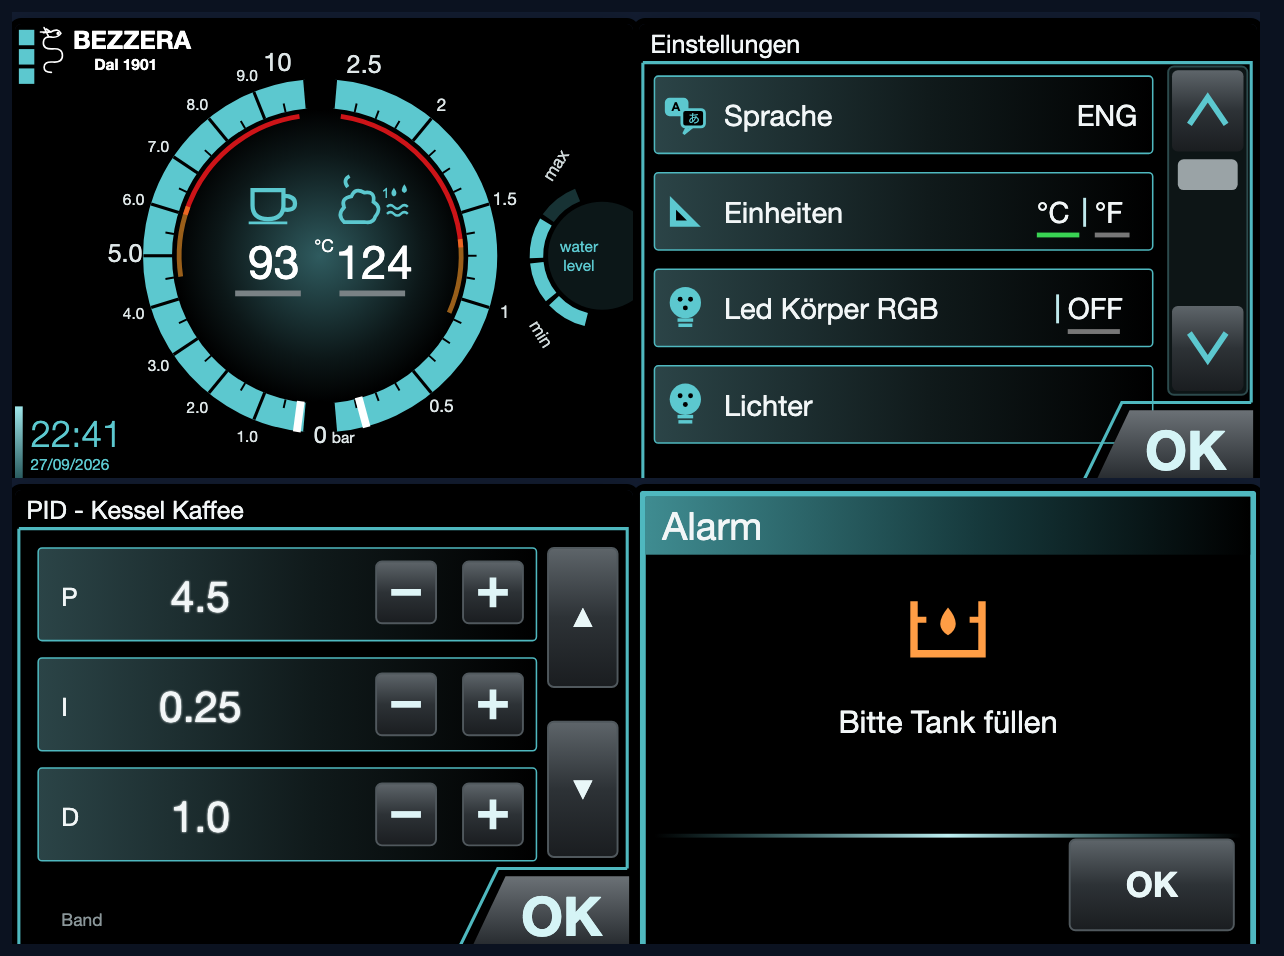
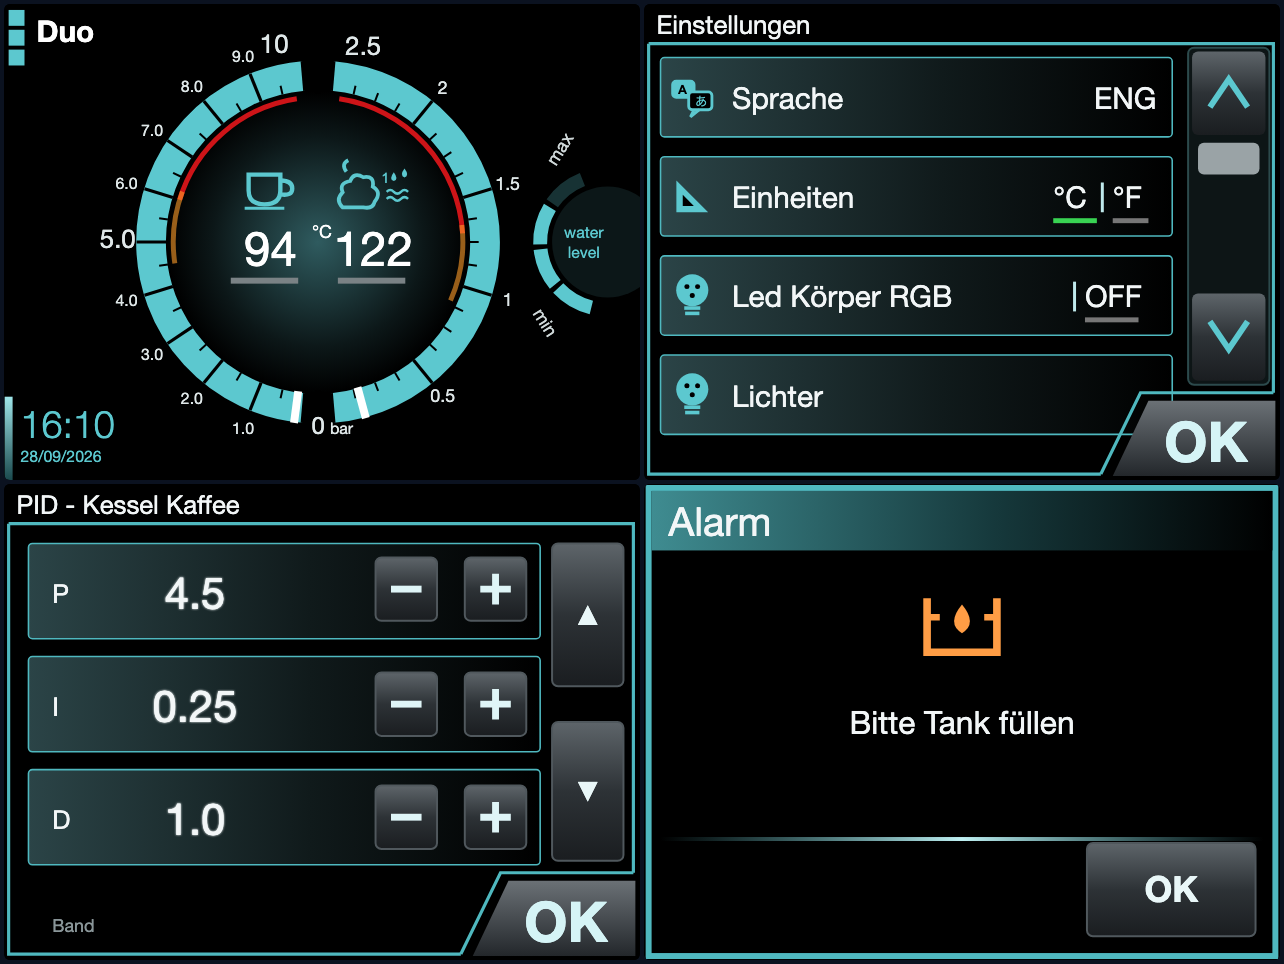
Display-Nachbau ohne Herstellerlogo
Schlange und Schriftzug "BEZZERA Dal 1901" im Nachbau durch einen
neutralen Schriftzug "Duo" und ein Tassensymbol ersetzt; hero.png,
standby_menue.png und weboberflaeche.png neu aus der Simulation.
Demo liefert dafuer Firmware-Version und PID-Werte.

Claude-Session: https://claude.ai/code/session_018WiivMUTBuvnsT2RcvbkJ6

Changed region(s): [[0.0, 0.0, 0.9969, 1.0], [0.6542, 0.728, 0.8411, 0.7887]]

diff --git a/bridge/duo_bridge/web_ui.h b/bridge/duo_bridge/web_ui.h
@@ -283,11 +283,6 @@ function uhr(r,x=12,y=222){
   const hm=r.slice(11,16), dat=r.slice(8,10)+"/"+r.slice(5,7)+"/"+r.slice(0,4);
   return txt(x,y-10,hm,{s:22,f:"#dff6ff",glow:1})+txt(x,y+4,dat,{s:9,f:"#bfe9ff"});
 }
-function logo(x,y,sk=1){ // stilisierte Schlange + Schriftzug, wie auf dem Standby
-  return `<g transform="translate(${x},${y}) scale(${sk})" fill="none" stroke="${FARBE.orange}" stroke-width="3" stroke-linecap="round" filter="url(#glow)">
-  <path d="M-12 -34 q8 -6 16 0 q8 6 16 0 M-14 -22 q14 -8 28 0 q-14 8 -28 0 M-12 -8 q12 -8 24 0 q-12 8 -24 0 M-8 6 q8 -6 16 0 q-8 6 -16 0 M-4 16 q4 6 0 12"/>
-  <circle cx="-14" cy="-36" r="2.5" fill="${FARBE.orange}"/></g>`;
-}
 function icon(name,x,y){
   const o=`fill="none" stroke="${FARBE.orange}" stroke-width="3" stroke-linejoin="round" stroke-linecap="round" filter="url(#glow)"`;
   if(name==="tank") return `<g transform="translate(${x},${y})" ${o}><path d="M-16 -14 V10 H16 V-14 M-16 -6 H-8 M8 -6 H16"/><path d="M0 -8 q-6 8 0 12 q6 -4 0 -12z" fill="${FARBE.orange}"/></g>`;
@@ -314,8 +309,8 @@ function wasserstand(){
 }
 
 function seiteStandby(s,j){
-  return `<rect width="320" height="240" fill="url(#gbg)"/>${logo(160,92,1.2)}
-  ${txt(160,128,"BEZZERA",{s:15,a:"middle",glow:1})}${txt(160,140,"Duo MN",{s:9,a:"middle"})}
+  return `<rect width="320" height="240" fill="url(#gbg)"/>${SYM.tasse(160,96,3)}
+  ${txt(160,140,"Duo",{s:15,a:"middle",glow:1})}
   ${txt(160,166,tx("start",s),{s:12,a:"middle",glow:1})}${klick(60,40,200,140,"taste('Start')")}
   <rect x="262" y="96" width="34" height="30" fill="#33465f" stroke="${FARBE.rahmen}" stroke-width="1.5"/>
   <path d="M270 119 l12 -12 m-2 -4 a6 6 0 1 1 6 6" stroke="${FARBE.cyan}" stroke-width="3" fill="none" stroke-linecap="round"/>
@@ -339,7 +334,7 @@ function seiteStart(s,j,k,d,einZeiger=false){
   :`<g stroke="#dff6ff" stroke-width="2" fill="none"><path d="M${cx-30} ${cy-26} h16 v6 q-8 8 -16 0 z"/><path d="M${cx+18} ${cy-28} q-6 6 0 12 m6 -12 q-6 6 0 12"/></g>
   ${txt(cx-22,cy+10,k??"–",{s:26,a:"middle",glow:1})}${txt(cx+26,cy+10,d??"–",{s:26,a:"middle",glow:1})}`}
   <g fill="${FARBE.cyan}"><rect x="10" y="10" width="7" height="7" rx="2"/><rect x="10" y="20" width="7" height="7" rx="2"/><rect x="10" y="30" width="7" height="7" rx="2"/></g>
-  ${klick(6,6,16,36,`geh(${lang(s)+14})`)}${logo(40,30,.45)}${txt(52,20,"BEZZERA",{s:12})}${txt(56,31,"Duo MN",{s:8})}
+  ${klick(6,6,16,36,`geh(${lang(s)+14})`)}${txt(28,22,"Duo",{s:12})}
   ${einZeiger?"":wasserstand()}
   ${uhr(j.rtc)}`;
 }
@@ -578,7 +573,7 @@ function zeigeDisplay(j,k,d){
   else if(ALARM_ICON[b]) inhalt=seiteAlarm(s,j);
   else if(LISTEN[b]) inhalt=seiteListe(s);
   else if([7,8,12,13].includes(b)) inhalt=seiteTemperatur(s,j);
-  else if(b==90) inhalt=`<rect width="320" height="240" fill="url(#gbg)"/>${logo(160,100,1.2)}${txt(160,140,"BEZZERA",{s:15,a:"middle",glow:1})}${txt(40,226,"TFT 2.0",{s:14,f:FARBE.cyan})}${txt(200,226,"FW: "+(((j.vps.find(x=>x.vp==0x63)||{w:[0]}).w[0])/10).toFixed(1),{s:14,f:FARBE.orange})}`;
+  else if(b==90) inhalt=`<rect width="320" height="240" fill="url(#gbg)"/>${SYM.tasse(160,96,3)}${txt(160,140,"Duo",{s:15,a:"middle",glow:1})}${txt(40,226,"TFT 2.0",{s:14,f:FARBE.cyan})}${txt(200,226,"FW: "+(((j.vps.find(x=>x.vp==0x63)||{w:[0]}).w[0])/10).toFixed(1),{s:14,f:FARBE.orange})}`;
   else inhalt=seiteSonst(s);
   $("dsp").innerHTML=defs+inhalt;
   // fehlende Werte der Seite einmal beim Display abfragen (Antwort landet in der VP-Tabelle)
@@ -595,7 +590,6 @@ function zeigeDisplay(j,k,d){
 // die Bildschirmfotos (320×240) im Bezzera-Handbuch „Matrix Duo“ (2018/2020).
 const TK=FARBE.cyan;
 T.start=["press to start","Für Start drücken","premere per accendere"];
-T.dal=["Dal 1901","Dal 1901","Dal 1901"];
 
 // Symbole, alle in Türkis, Mittelpunkt x/y, Größe ~ s
 const SYM={
@@ -620,12 +614,8 @@ const SYM={
  key:(x,y,s=1)=>`<g transform="translate(${x},${y}) scale(${s}) rotate(-35)"><circle cx="-6" r="5" fill="none" stroke="${TK}" stroke-width="3"/><path d="M-1 0 H12 M8 0 V4 M11 0 V3" stroke="${TK}" stroke-width="3"/></g>`,
 };
 
-function schlange(x,y,sk,farbe){ // Bezzera-„Biscione“, vereinfachte Kontur
-  return `<g transform="translate(${x},${y}) scale(${sk})" fill="none" stroke="${farbe}" stroke-width="2.2" stroke-linecap="round" stroke-linejoin="round">
-  <path d="M-4 -26 q10 -6 14 2 q-4 6 -12 5 q-12 -2 -12 8 q0 9 13 8 q13 -1 13 9 q0 10 -13 9 q-12 -1 -12 7 q0 7 10 7"/>
-  <path d="M-4 -26 l-6 -4 M-4 -26 l-10 1 M-13 -32 l6 12 M-18 -26 l12 0"/><circle cx="6" cy="-24" r="1.2" fill="${farbe}"/></g>`;
-}
-function kopfLogo(x,y,f="#fff"){return schlange(x+6,y+12,.38,f)+txt(x+16,y+11,"BEZZERA",{s:13,w:800,f})+txt(x+27,y+22,"Dal 1901",{s:8,w:700,f})}
+// Kopfzeile: neutraler Schriftzug statt Herstellerlogo
+function kopfLogo(x,y,f="#fff"){return txt(x+2,y+17,"Duo",{s:15,w:800,f})}
 function menueQuadrate(){return `<g fill="${TK}"><rect x="2" y="3" width="8" height="8"/><rect x="2" y="13" width="8" height="8"/><rect x="2" y="23" width="8" height="8"/></g>`}
 function uhr(r){
   const hm=r?r.slice(11,16):"--:--", dat=r?r.slice(8,10)+"/"+r.slice(5,7)+"/"+r.slice(0,4):"";
@@ -712,7 +702,7 @@ function seiteStart(s,j,k,d,einZeiger=false){
 }
 function seiteStandby(s,j){
   return `<rect width="320" height="240" fill="#000"/>`+kopfLogo(4,0)+`<rect x="0" y="30" width="170" height="1.5" fill="url(#gtrenn)"/>`+
-   schlange(160,92,1.25,FARBE.rot)+txt(160,160,"BEZZERA",{s:13,w:800,a:"middle",f:"#fff"})+txt(160,173,"Dal 1901",{s:9,w:700,a:"middle",f:"#fff"})+
+   SYM.tasse(160,100,3.2)+txt(160,160,"Duo",{s:15,w:800,a:"middle",f:"#fff"})+
    txt(190,207,tx("start",s),{s:12,a:"middle",f:"#d9dfe0"})+
    `<path d="M272 108 H318 V148 H266 V114 Z" fill="#2c3b3d"/>`+SYM.schluessel(292,128,.9)+uhr(j.rtc);
 }

diff --git a/tools/web_demo.py b/tools/web_demo.py
@@ -98,7 +98,10 @@ class Demo:
         j = {"ms": int((time.time() - self.start) * 1000), "seite": self.seite,
              "rtc": time.strftime("%Y-%m-%d %H:%M:%S"),
              "display": {"rahmen": 1000, "still_ms": 50}, "mainboard": {"rahmen": 1000, "still_ms": 50},
-             "vps": [{"vp": 0x50, "alter_ms": 100, "w": w}, {"vp": 0, "alter_ms": 100, "w": [1 if self.an else 0]}],
+             "vps": [{"vp": 0x50, "alter_ms": 100, "w": w}, {"vp": 0, "alter_ms": 100, "w": [1 if self.an else 0]},
+                     {"vp": 0x63, "alter_ms": 5000, "w": [21]},  # Firmware 2.1
+                     {"vp": 0x76, "alter_ms": 900, "w": [45]}, {"vp": 0x77, "alter_ms": 900, "w": [25]},
+                     {"vp": 0x78, "alter_ms": 900, "w": [10]}],  # PID Kaffee 4.5 / 0.25 / 1.0
              "overrides": [], "ereignis_nr": nr, "ereignisse": self.ereignisse[ab:], "emulation": 0}
         return json.dumps(j).encode()
 

diff --git a/README.md b/README.md
@@ -21,7 +21,7 @@
 <p align="center">
   <img src="docs/screenshots/hero.png" alt="Nachbau des Bezzera-Displays in der Weboberfläche: Startbildschirm, Einstellungen, PID-Kessel Kaffee, Alarm Bitte Tank füllen" width="860" />
   <br />
-  <sub><i>Der Display-Nachbau der Weboberfläche — gezeichnet nach den Bildschirmfotos im Bezzera-Handbuch und eigenen Fotos aller 300 Seiten, bedienbar mit den Tastenflächen aus dem Display-Flash.</i></sub>
+  <sub><i>Der Display-Nachbau der Weboberfläche — gezeichnet nach den Bildschirmfotos im Bezzera-Handbuch und eigenen Fotos aller 300 Seiten, bedienbar mit den Tastenflächen aus dem Display-Flash. Das Herstellerlogo ist bewusst durch einen neutralen Schriftzug ersetzt.</i></sub>
 </p>
 
 ---
@@ -52,7 +52,7 @@ selbst zu sprechen. Ziel ist dasselbe wie beim Reddit-Projekt von
 <table>
   <tr>
     <td width="50%" align="center">
-      <img src="docs/screenshots/weboberflaeche.png" alt="Weboberfläche der Bridge mit Display-Nachbau, Temperaturen, Steuerung, Variablen und Seitenkatalog" width="420" /><br />
+      <img src="docs/screenshots/weboberflaeche.png" alt="Weboberfläche der Bridge mit Display-Nachbau, Temperaturen, Ein/Aus und Verlauf" width="420" /><br />
       <b>Weboberfläche der Bridge</b>
     </td>
     <td width="50%" align="center">
